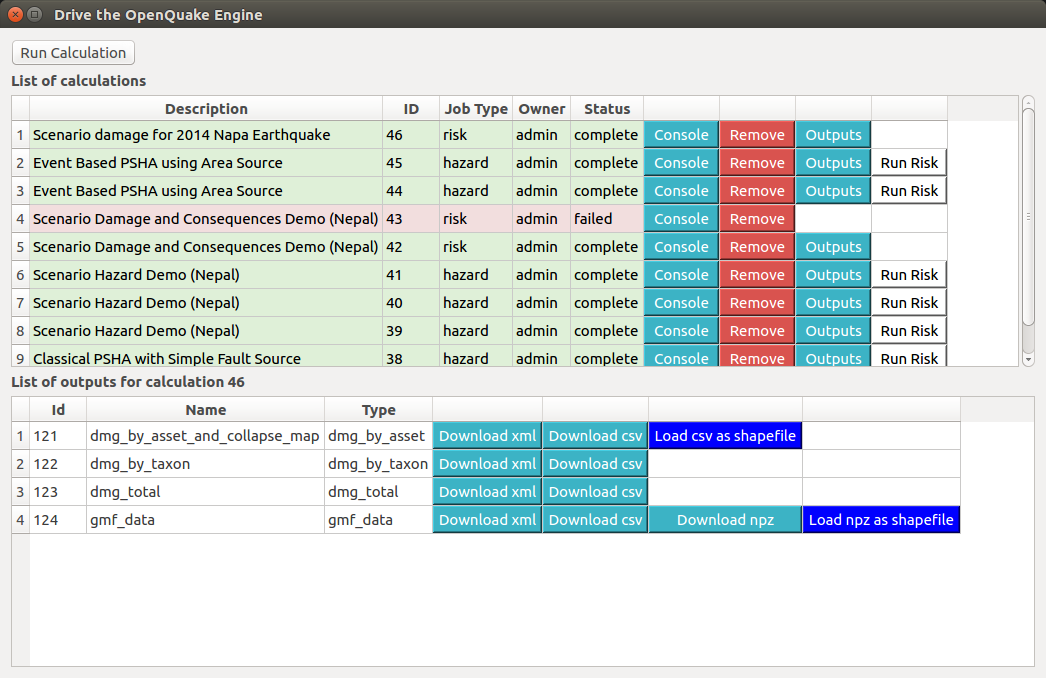
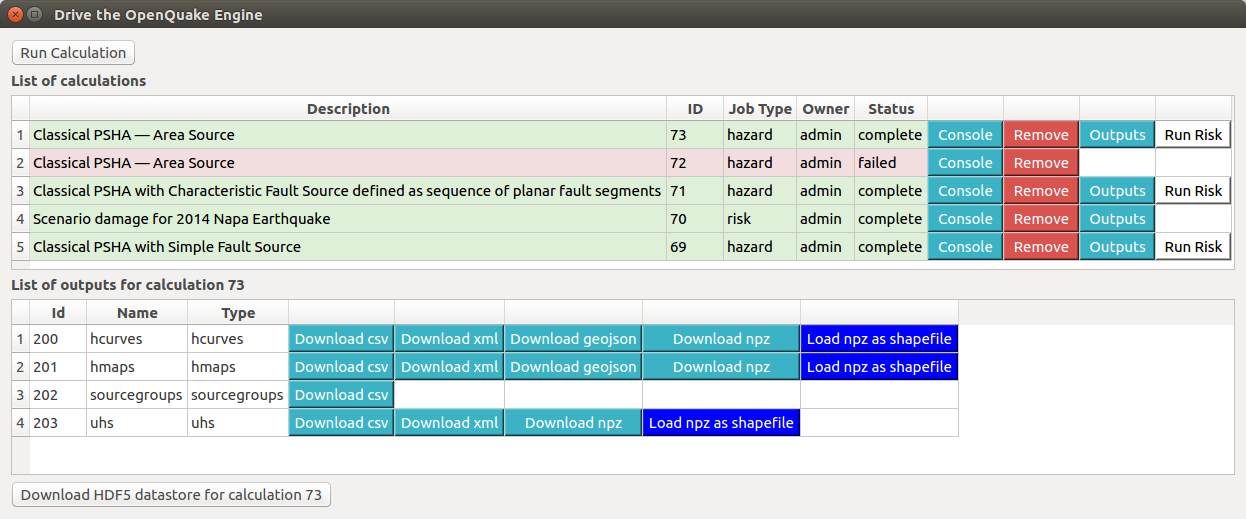
Explain in the manual how to download a calculation's datastore

diff --git a/svir/help/source/14_driving_the_oqengine.rst b/svir/help/source/14_driving_the_oqengine.rst
@@ -60,6 +60,13 @@ downloaded in one of the available formats, by clicking the corresponding
 button. In some cases, they can also be loaded as QGIS layers, and a default
 styling is applied, based on parameters chosen by the user.
 
+It is also possible to download the HDF5 datastore corresponding to a chosen
+calculation. When the :guilabel:`Outputs` button is pressed, the
+:guilabel:`Download HDF5 datastore for calculation N` button is enabled (where
+`N` is the calculation ID). By pressing it and selecting a destination folder,
+the file is downloaded and its full path is displayed both in the QGIS message
+bar and in the :guilabel:`Log Messages Panel`.
+
 A hazard map defines the geographic distribution of the values of a scalar IMT
 (see also :ref:`chap-definitions`) characterized by a fixed probability of
 being exceeded at least once in a time span T. For computing a hazard map with
@@ -68,6 +75,9 @@ be computed and, the corresponding probability of exceedance. An alternative
 representation of a hazard map fixes the value of IMT and computes over an area
 the corresponding probability of at least on exceedance in T; this typology of
 result is currently not supported by the OpenQuake-engine.
+
+Other kinds of outputs (e.g. hazard curves and uniform hazard spectra) can be
+visualized in the IRMT Data Viewer (see :ref:`chap-viewer-dock`).
 
 .. _fig-hazard-map:
 
@@ -90,10 +100,9 @@ a zip archive containing them).
 Remove a calculation
 ====================
 
-To hide a calculation from the list press the :guilabel:`Remove` button.
-
-The calculation is removed from the calculations list, but it is not actually
-removed from the database nor from the datastore.
+To remove a calculation, press the :guilabel:`Remove` button.
+It will remove the calculation from the list, from the database and
+from the datastore.
 
 
 Calculation status
